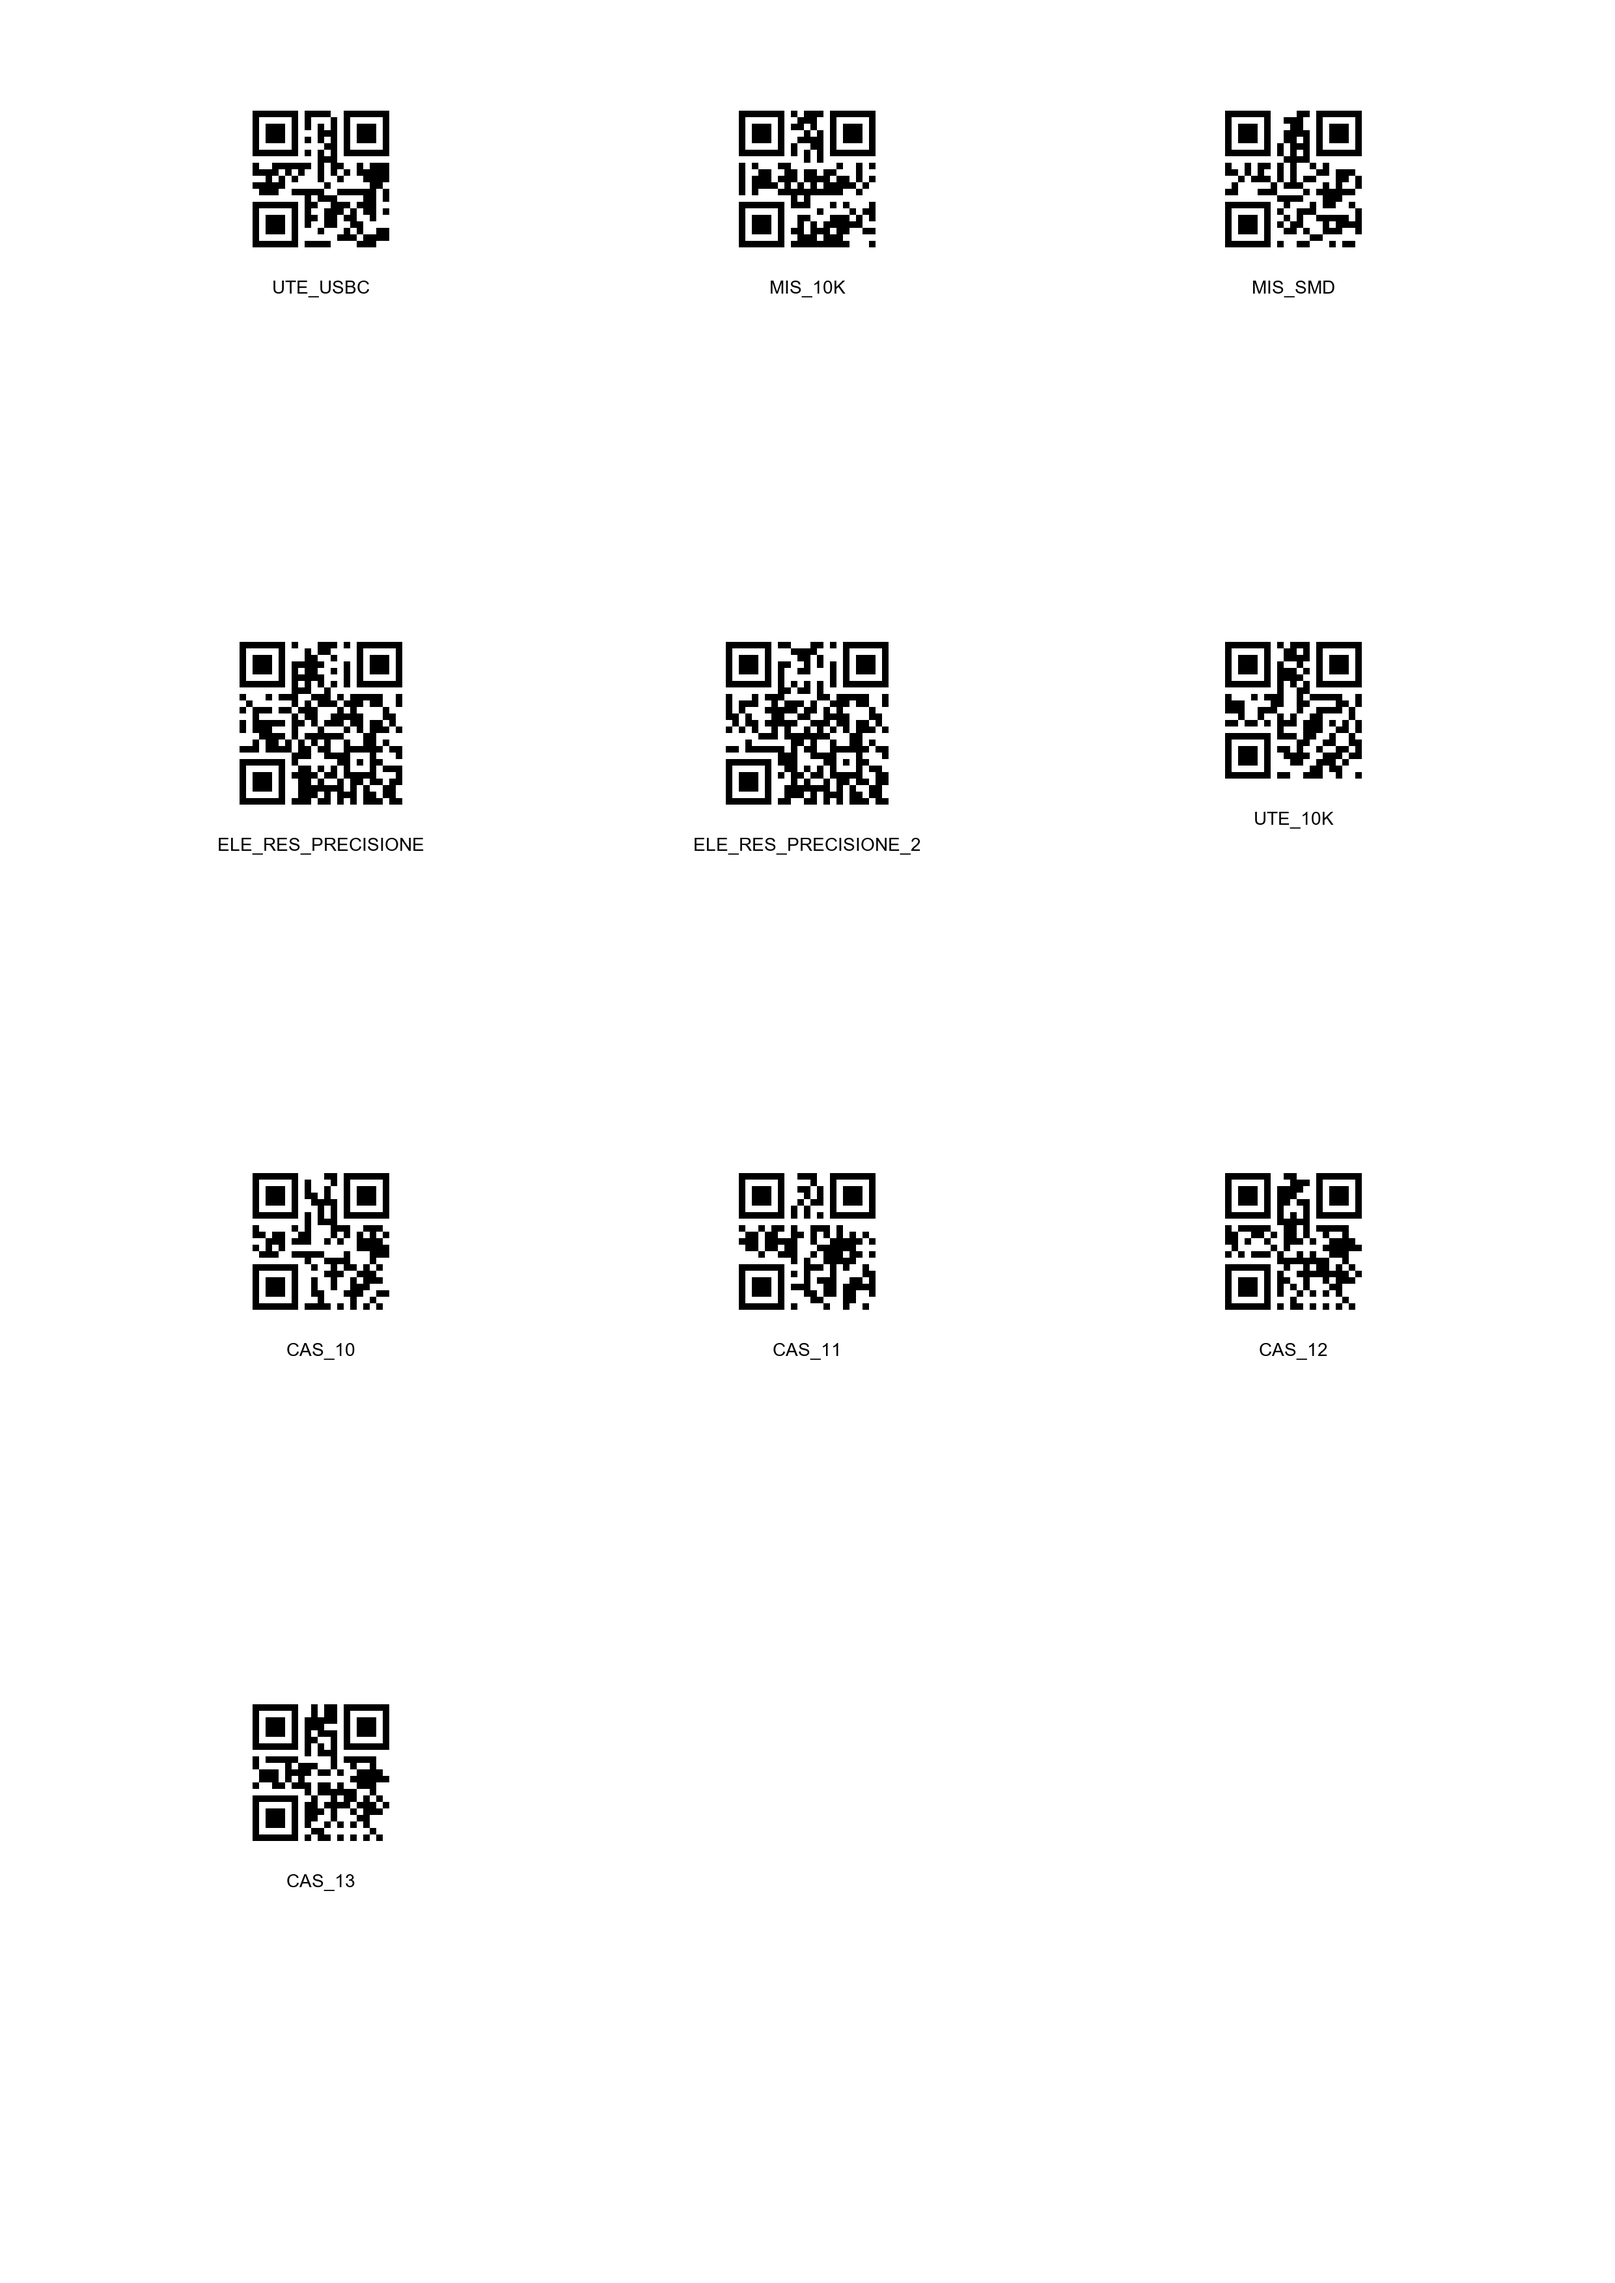
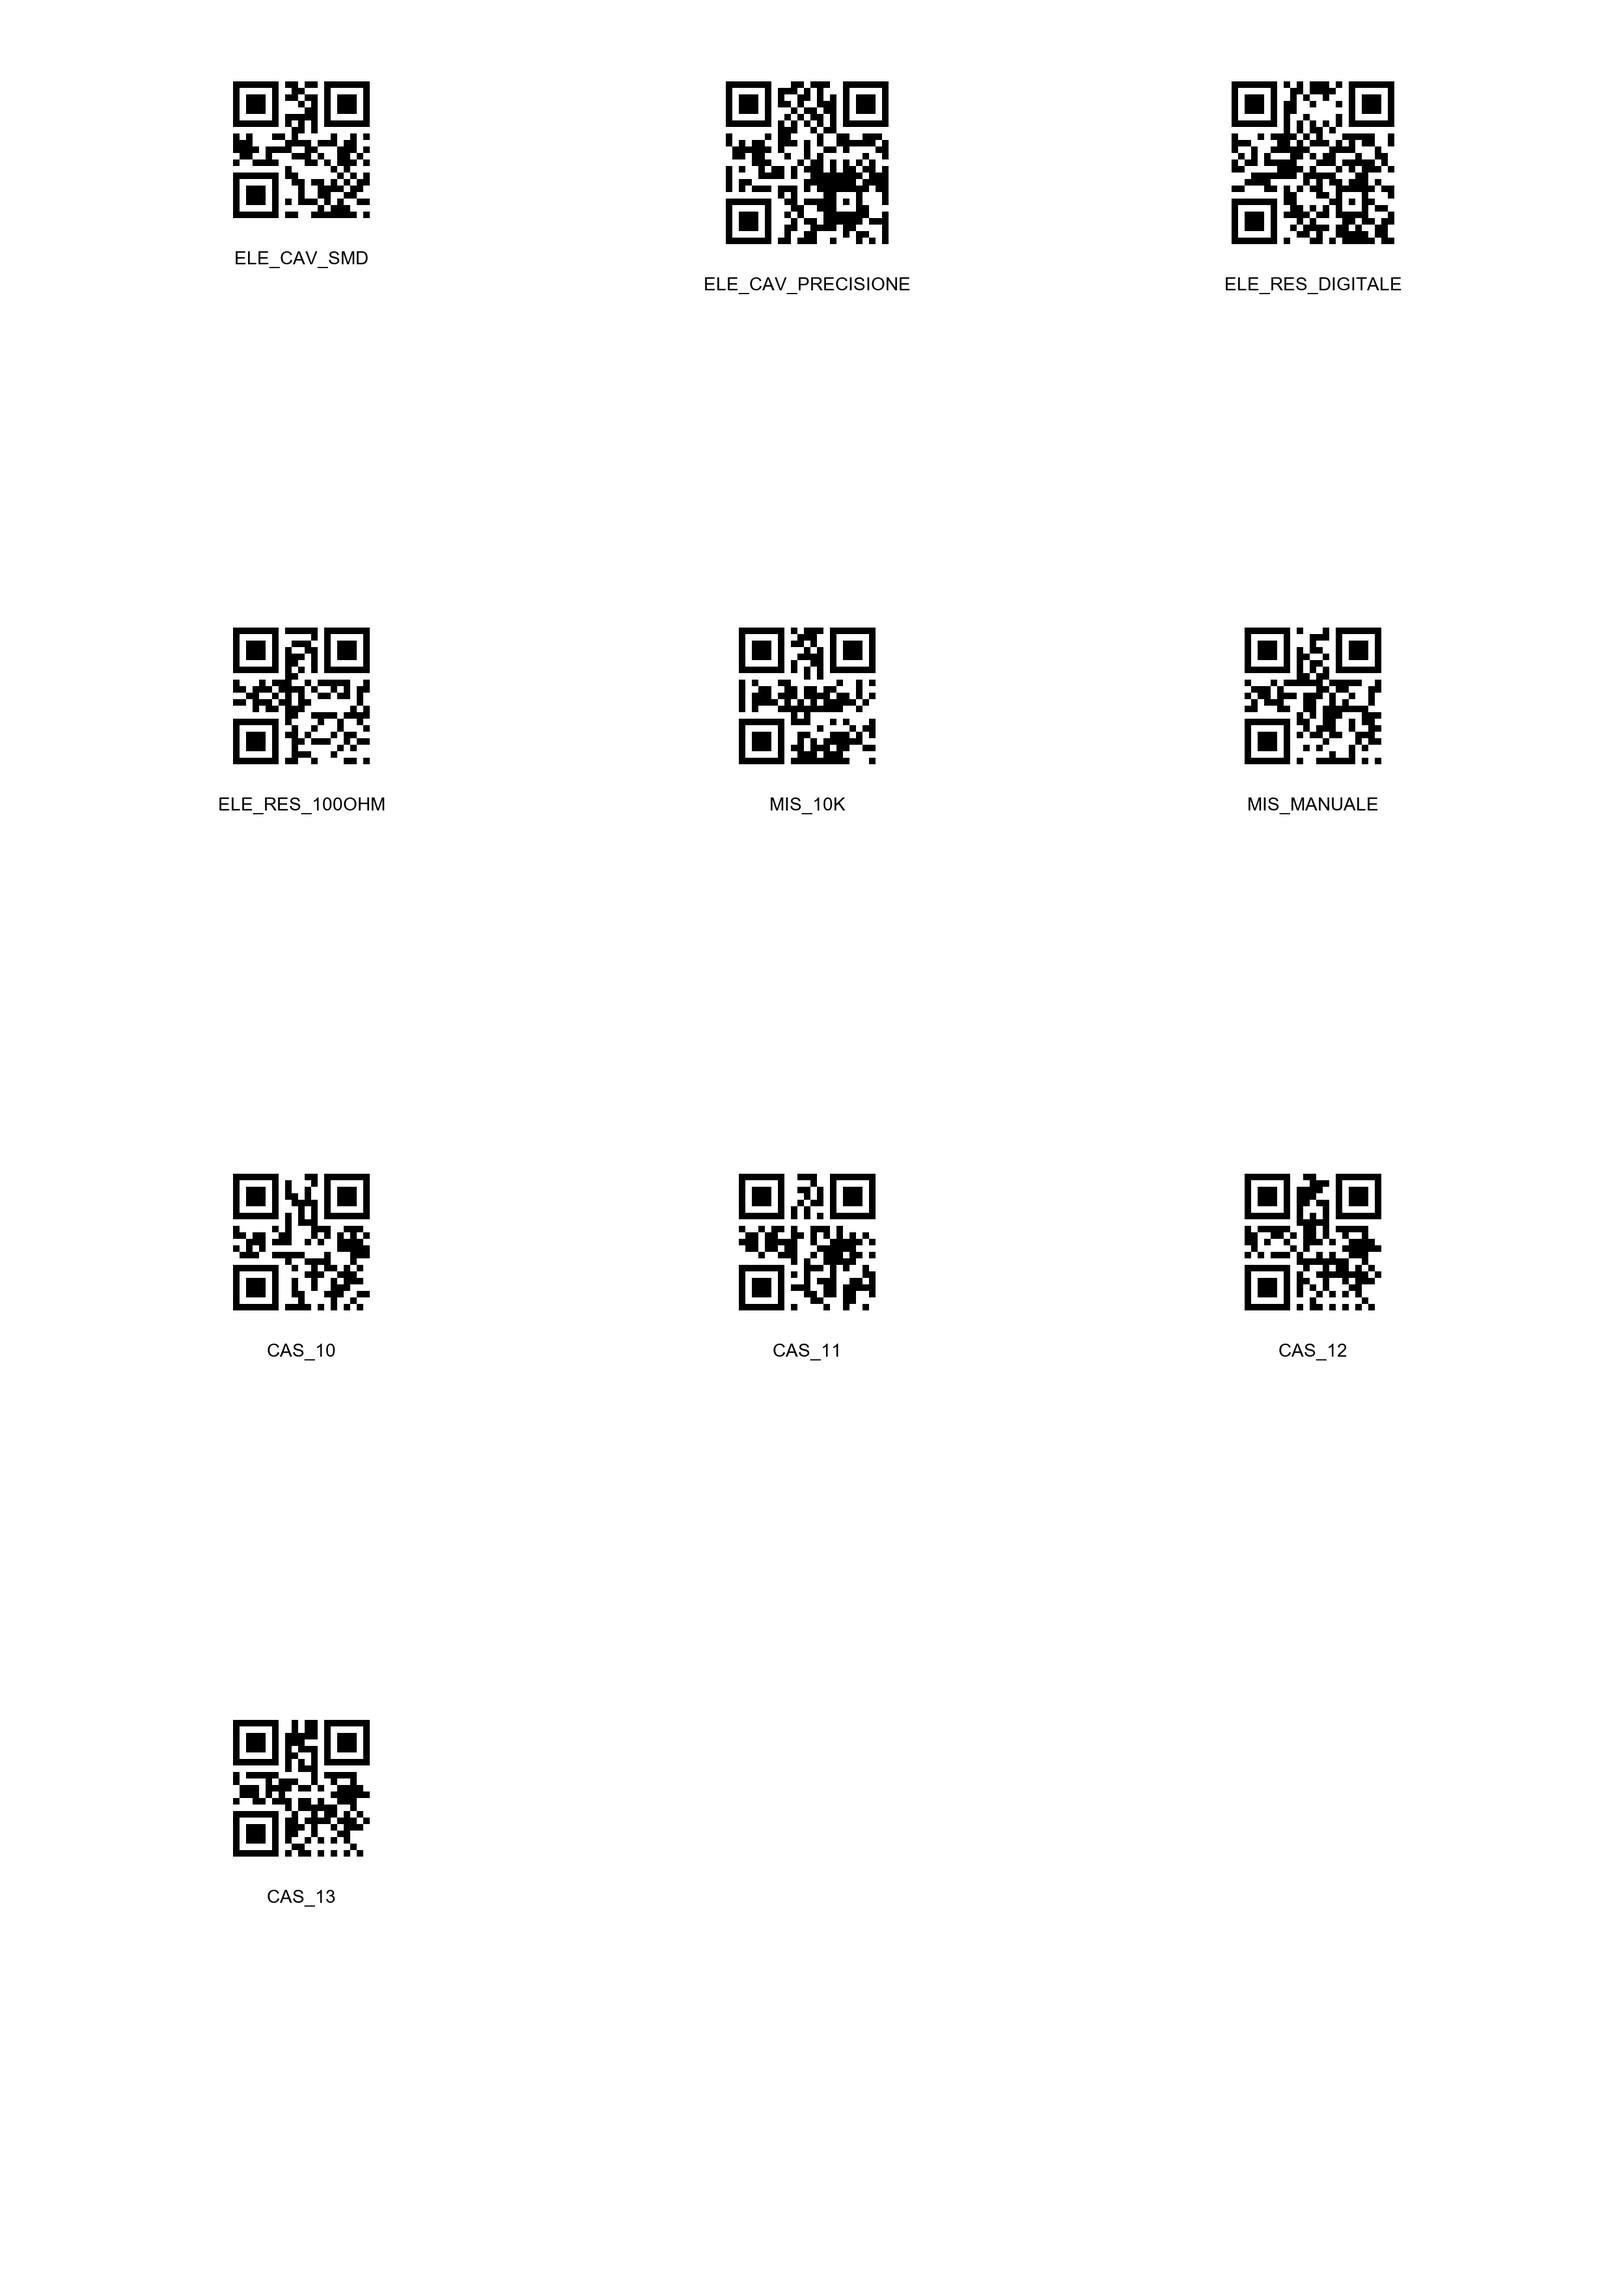
GUI(1.00 location tree)

diff --git a/app/gui/finestra_princ.py b/app/gui/finestra_princ.py
@@ -1,0 +1,118 @@
+from PySide6.QtWidgets import (
+QMainWindow, QWidget, QSplitter, QTreeView, QTableView, QVBoxLayout, QLabel, QHeaderView
+)
+from PySide6.QtGui import QStandardItemModel, QStandardItem
+from PySide6.QtCore import Qt
+
+from app.db import location_repo, oggetto_repo
+
+class FinestraPrincipale(QMainWindow):
+    def __init__(self):
+        super().__init__()
+        self.setWindowTitle("Stocktopus")
+        self.resize(1100,700)
+
+        splitter = QSplitter(Qt.Horizontal)
+
+        self.albero_location = self._crea_albero_locations()
+        splitter.addWidget(self.albero_location)
+
+        self.tabella_oggetti = self._crea_tabella_oggetti()
+        splitter.addWidget(self.tabella_oggetti)
+
+        self.pannello_dettaglio = self._crea_pannello_dettaglio()
+        splitter.addWidget(self.pannello_dettaglio)
+
+        splitter.setSizes([250, 550, 300])
+        self.setCentralWidget(splitter)
+
+    def _crea_albero_locations(self) -> QTreeView:
+        albero = QTreeView()
+        albero.setHeaderHidden(True)
+
+        self.modello_location = QStandardItemModel()
+        self._popola_nodo_radice(self.modello_location)
+        albero.setModel(self.modello_location)
+
+        albero.clicked.connect(self._on_location_selezionata)
+        albero.expanded.connect(self._on_location_espansa)
+        return albero
+
+    def _popola_nodo_radice(self, modello: QStandardItemModel):
+        """
+        Carica solo il primo livello (le stanze). I livelli sotto vengono carivati al momento dell' espansione, non tutti subito - vedi _aggiungi_figli_lazy.
+
+        """
+
+        radici = location_repo.leggi_locations_figlie(None)
+        print(f"DEBUG: trovate {len(radici)} location radice") 
+        for location in radici:
+            item = self._crea_item_location(location)
+            modello.appendRow(item)
+
+    def _crea_item_location(self, location: dict) -> QStandardItem:
+        item = QStandardItem(location["nome"])
+        item.setData(location["id"], Qt.UserRole)
+        item.setEditable(False)
+        # placeholder: aggiunge un figlio finto SOLO se esistono figli veri,
+        # così la freccina di espansione compare senza dover caricare tutto subito
+        if location_repo.leggi_locations_figlie(location["id"]):
+            placeholder = QStandardItem("expand...")
+            placeholder.setEditable(False)
+            item.appendRow(placeholder)
+        return item
+
+    def _on_location_selezionata(self, index):
+        item = self.albero_location.model().itemFromIndex(index)
+        id_location = item.data(Qt.UserRole)
+
+        self._espandi_se_necessario(item)
+        self._aggiorna_tabella_oggetti(id_location)
+
+    def _on_location_espansa(self, index):
+        """Scatta quando l'utente espande un nodo tramite la freccina."""
+        item = self.modello_location.itemFromIndex(index)
+        self._espandi_se_necessario(item)
+
+    def _espandi_se_necessario(self, item: QStandardItem):
+        """Se il nodo ha ancora il placeholder finto, lo sostituisce con i figli veri.
+        Riutilizzata sia dal click sulla riga sia dal click sulla freccina."""
+        # se il nodo ha ancora il placeholder finto, sostituiscilo con i figli veri
+        if item.rowCount() == 1 and item.child(0).text() == "expand...":
+            id_location = item.data(Qt.UserRole)
+            item.removeRow(0)
+            for figlio in location_repo.leggi_locations_figlie(id_location):
+                item.appendRow(self._crea_item_location(figlio))
+
+    def _crea_tabella_oggetti(self) -> QTableView:
+        tabella = QTableView()
+        self.modello_oggetti = QStandardItemModel()
+        self.modello_oggetti.setHorizontalHeaderLabels(["Name", "Amount", "Abbreviation"])
+        tabella.setModel(self.modello_oggetti)
+        tabella.setSelectionBehavior(QTableView.SelectRows)
+
+        header = tabella.horizontalHeader()
+        header.setSectionResizeMode(QHeaderView.ResizeToContents)
+        header.setStretchLastSection(True)
+        return tabella
+
+    def _aggiorna_tabella_oggetti(self, id_location: int):
+        self.modello_oggetti.setRowCount(0) # svuoto poi riempo
+        oggetti = oggetto_repo.leggi_oggetti_per_location(id_location)
+        for oggetto in oggetti:
+            riga = [
+                QStandardItem(oggetto["nome"]),
+                QStandardItem(str(oggetto["quantita"]) + " ["  + oggetto["unita_misura"] + "]"),
+                QStandardItem(oggetto["abbreviazione"]),
+            ]
+            for cella in riga:
+                cella.setEditable(False)
+            self.modello_oggetti.appendRow(riga)
+
+    def _crea_pannello_dettaglio(self) -> QWidget:
+        pannello = QWidget()
+        layout = QVBoxLayout(pannello)
+        layout.addWidget(QLabel("Select an object to view more details"))
+        layout.addStretch()
+
+        return pannello

diff --git a/main.py b/main.py
@@ -1,14 +1,13 @@
 import sys
-from PySide6.QtWidgets import QApplication, QMainWindow
+from PySide6.QtWidgets import QApplication
+from app.db.initdb import InitDB
+from app.gui.finestra_princ import FinestraPrincipale
 
-class MainWindow(QMainWindow):
-    def __init__(self):
-        super().__init__()
-        self.setWindowTitle("STOCKTOPUS")
-        self.setGeometry(100, 100, 800, 600)
 
 if __name__ == "__main__":
+    InitDB()
+
     app = QApplication(sys.argv)
-    window = MainWindow()
+    window = FinestraPrincipale()
     window.show()
     sys.exit(app.exec())

diff --git a/app/codes/foglio_di_stampa.py b/app/codes/foglio_di_stampa.py
@@ -7,7 +7,7 @@ CARTELLA_FOGLI = Path(__file__).parent.parent.parent / "data" / "printable_sheet
 DPI = 300
 LARGHEZZA_A4 = int(8.27 * DPI)   # ~2481 px
 ALTEZZA_A4 = int(11.69 * DPI)    # ~3508 px
-MARGINE = int(0.4 * DPI)         # margine esterno del foglio
+MARGINE = int(0.25 * DPI)         # margine esterno del foglio
 
 
 def crea_fogli_etichette(codici: list[dict], colonne: int = 3, righe: int = 4) -> list[Path]:
